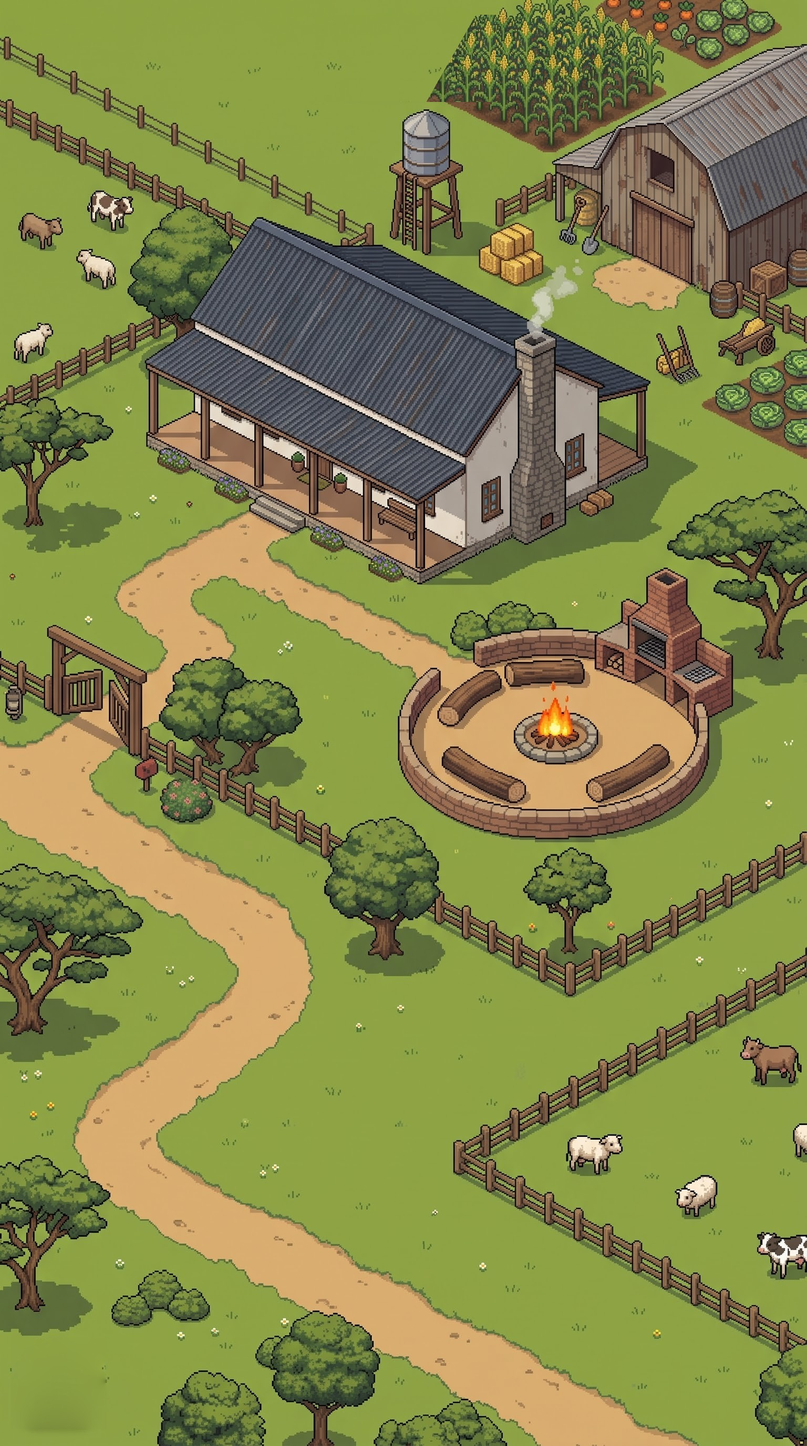
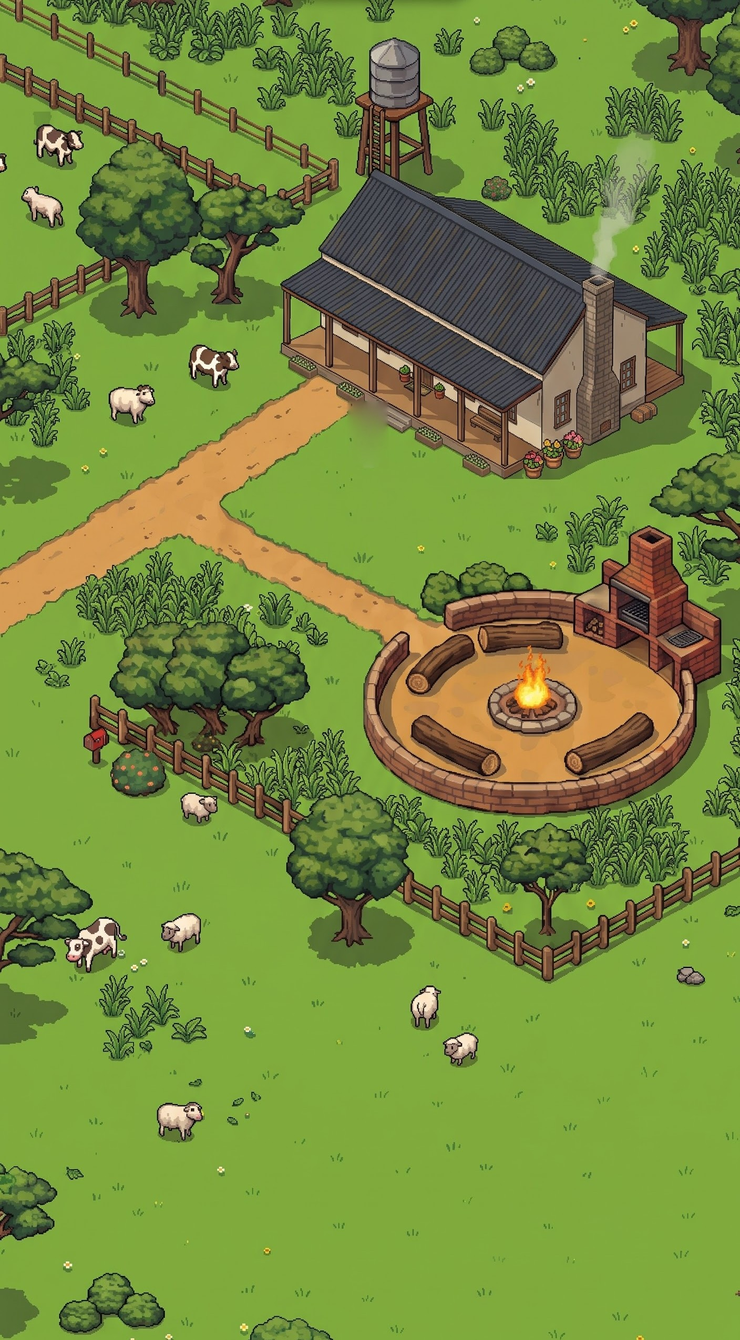
Pieter's farm: the new picture
- Swapped in the new picture of Pieter's farm (public/assets/pieter.jpg;
  the original screenshot kept in art/pieter-source.jpg). Cropped below the
  phone's status bar and the painted-in day label and above the painted-in
  menu button; the Boer Johan painted in front of the stoep patched over
  with grass.
- He comes in by the road from the left (back to the crossroads that way),
  up to the stoep's steps, and down the path to the braai, whose sandy floor
  he can walk round (the fire and the brick braai left out). New walk mask,
  src/pieterMask.js.

Claude-Session: https://claude.ai/code/session_0124SAAsohjd5UUHFN67phdU

diff --git a/src/pieterMask.js b/src/pieterMask.js
@@ -1,6 +1,6 @@
 // Generated by scripts/build-masks.py — do not edit by hand.
 // Walkable cells (the paths on Pieter's farm, and the floor round his braai fire) as a row-major, MSB-first bitset, base64.
 export const CELL = 8;
-export const COLS = 192;
-export const ROWS = 344;
[1 lines of base64/hex data omitted]
+export const COLS = 176;
+export const ROWS = 318;
[1 lines of base64/hex data omitted]

diff --git a/src/PieterScene.js b/src/PieterScene.js
@@ -3,10 +3,11 @@ import { pieterGrid } from './WalkGrid.js';
 import { asset } from './asset.js';
 
 // Pieter's farm (assets/pieter.jpg), right from the crossroads: his
-// farmhouse with its long stoep, a water tower and a barn behind, and in
-// front a braai with a fire going, seats round it. Boer Johan comes in by
-// the road at the bottom, which winds up past the gate to the house; that's
-// the way back to the crossroads.
+// farmhouse with its long stoep and a water tower behind, cattle and sheep
+// about, and below it a braai with a fire going, logs to sit on round it.
+// Boer Johan comes in by the road from the left, which goes up to the stoep's
+// steps, a path off it down to the braai; that road's the way back to the
+// crossroads.
 
 const HERE = { af: 'Pieter se plaas', en: "Bob's farm" };
 
@@ -14,12 +15,12 @@ export default class PieterScene extends MapScene {
   constructor() {
     super({ key: 'Pieter' });
     this.map = {
-      key: 'pieter', file: asset('pieter.jpg'), w: 1536, h: 2752, grid: pieterGrid,
-      scale: 1.8, // as big as his fences and stoep want
-      home: { x: 560, y: 1100 }, // on the path below the stoep
+      key: 'pieter', file: asset('pieter.jpg'), w: 1408, h: 2550, grid: pieterGrid,
+      scale: 2.1, // as big as his stoep and fences want
+      home: { x: 300, y: 1040 }, // on the road in
     };
     this.exits = {
-      crossroads: { side: 'bottom', near: 1140, to: 'Road', data: { from: 'pieter' } },
+      crossroads: { side: 'left', near: 1080, to: 'Road', data: { from: 'pieter' } },
     };
   }
 

diff --git a/scripts/build-masks.py b/scripts/build-masks.py
@@ -101,17 +101,13 @@ MAPS = [
         'what': "the paths on Pieter's farm, and the floor round his braai fire",
         'cell': 8,
         'close': 7,
-        'start': (300, 1200),  # on the path, by the gate
+        'start': (220, 1060),  # on the road in, below the farmhouse
         'walk': dirt,
-        'boxes': [
-            ((150, 1350, 170, 150), None),        # through the gate, where the path from the house meets the road
-            ((760, 1180, 600, 420), light_path),  # the sandy floor round the fire
-        ],
+        'boxes': [],
         'exclude': [
-            (270, 400, 970, 560),  # the farmhouse (its porch floor is the paths' colour), up to its steps
-            (1130, 1080, 270, 280),  # the brick braai
-            (976, 1340, 164, 110),  # the fire
-            (0, 0, 140, 2752), (1396, 0, 140, 2752),  # the sides, which the screen cuts off (the path out through the gate)
+            (530, 300, 790, 450), (800, 750, 520, 170),  # the farmhouse and its stoep (the paths' colour), down to its steps
+            (1093, 1000, 280, 280),  # the brick braai
+            (927, 1287, 173, 106),  # the fire
         ],
     },
 ]

diff --git a/README.md b/README.md
@@ -79,7 +79,7 @@ houses, a cafe and a restaurant to walk round (`src/TownScene.js`; the map is
 `src/townMask.js` by `scripts/build-masks.py`). The road out at the top right
 goes back to the crossroads. Right from the crossroads is **Bob's farm**
 (Pieter se plaas: `src/PieterScene.js`, `public/assets/pieter.jpg`): in by the
-road at the bottom, up past the gate to his farmhouse's stoep, and round the
+road from the left, up to his farmhouse's stoep, and down the path to the
 braai with its fire going. The picture maps are
 `src/MapScene.js` scenes. In conversations
 Farmer Jones's replies are picked from two (`src/dialog.js`). Every speech
